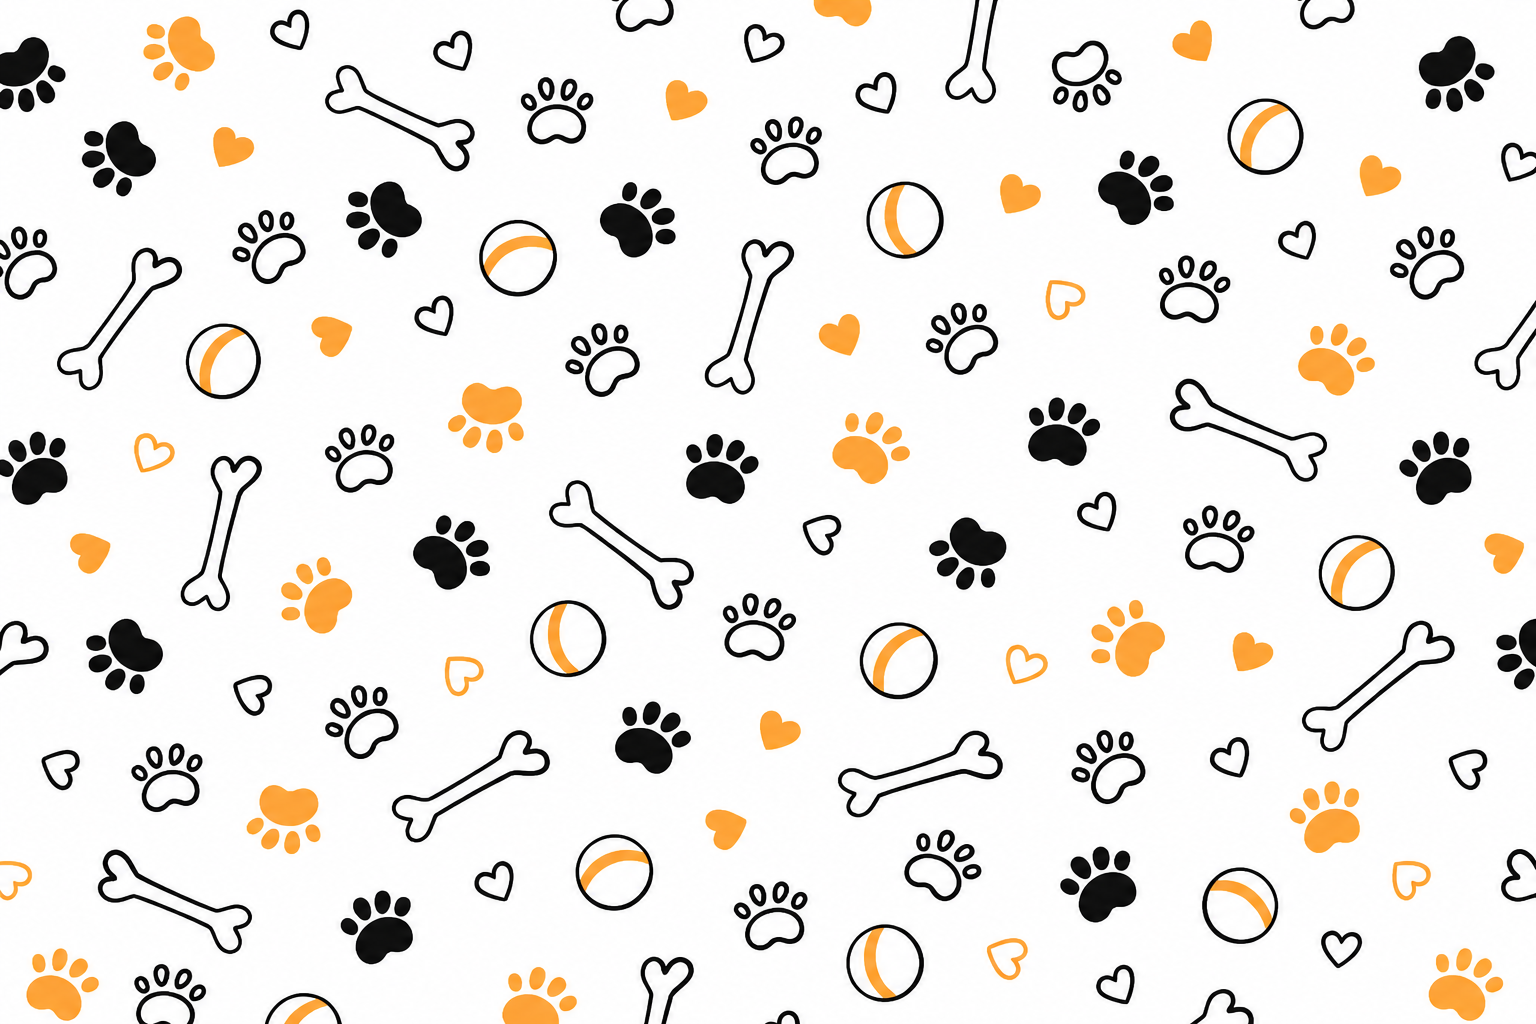
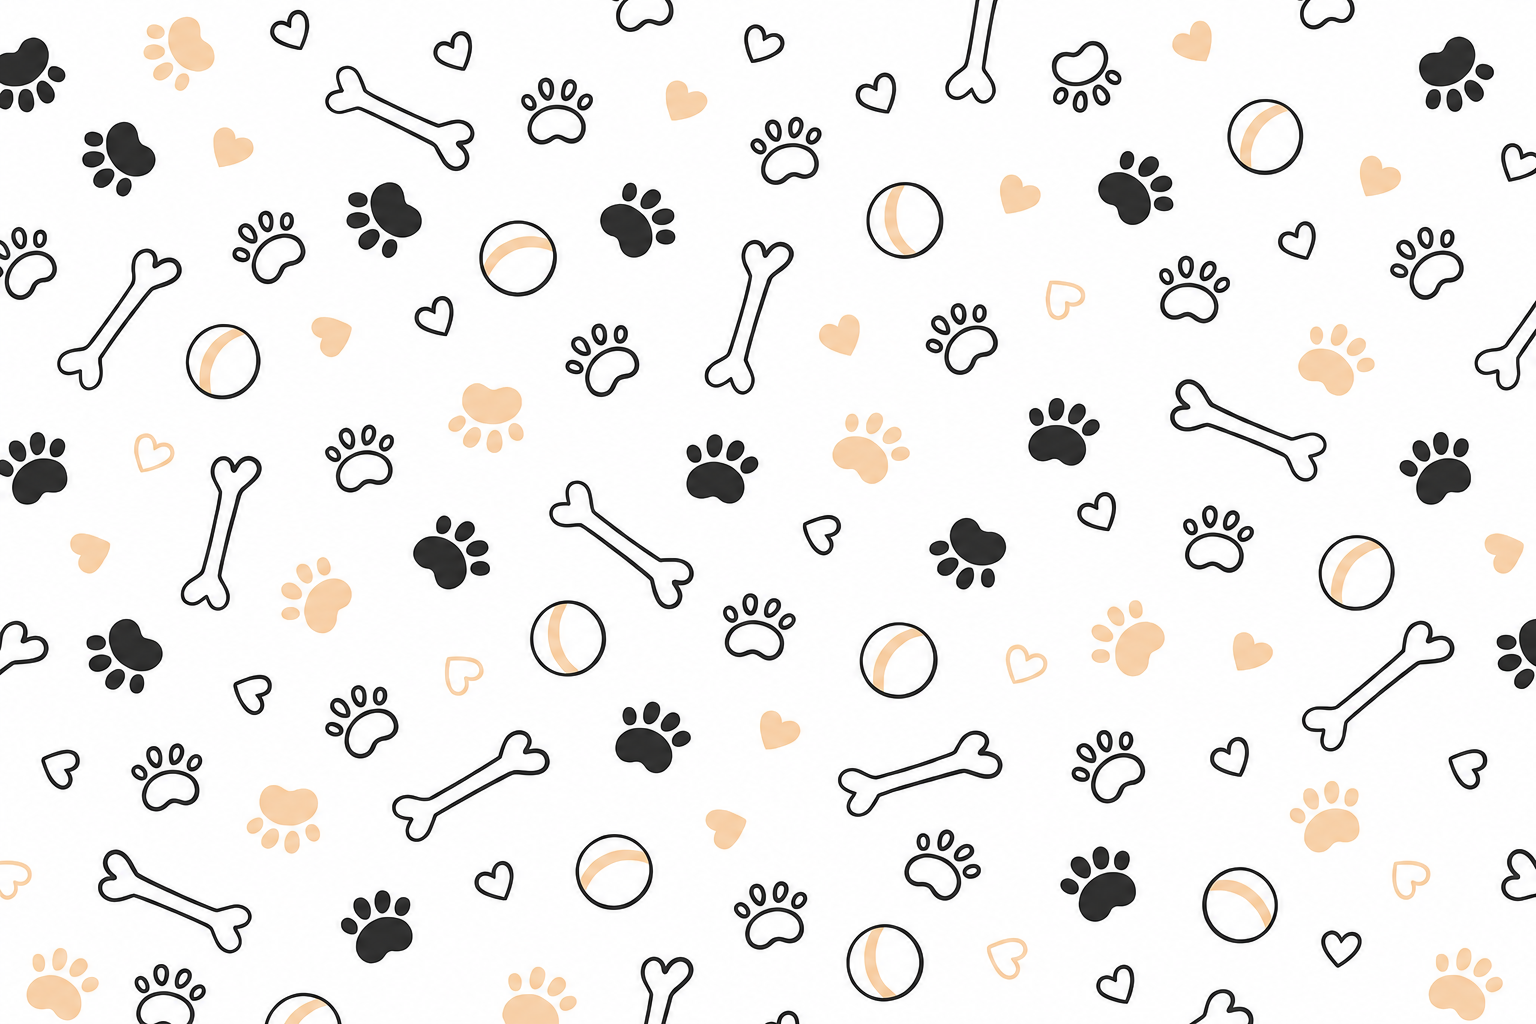
carrusel2

diff --git a/carrusel-eventos.html b/carrusel-eventos.html
@@ -1,0 +1,59 @@
+<!DOCTYPE html>
+<html lang="en">
+
+<head>
+    <meta charset="UTF-8">
+    <meta name="viewport" content="width=device-width, initial-scale=1.0">
+    <title>Document</title>
+    <link rel="stylesheet" href="styles.css">
+</head>
+<body>
+    <header class="header">
+        <div class="titulo">
+            <img class="logo" src="images/logo.png" alt="Logo de la fundación">
+            <h1>Patitas Felices</h1>
+        </div>
+        <nav class="navegador">
+            <a href="/index.html">Inicio</a>
+            <a href="#adopta">Adopta</a>
+            <a href="#contacto">Contacto</a>
+            <a href="/misionYvision.html">Visión y Misión</a>
+            <a href="/carrusel-eventos.html">Eventos</a>
+        </nav>
+    </header>
+
+    <section class="titulo-carrusel">
+        <h1>Momentos que nos inspiran</h1>
+        <h3>Un vistazo a nuestro día a día en el refugio.</h3>
+    </section>
+    <section>
+        <p>Lorem ipsum dolor sit, amet consectetur adipisicing elit. Laboriosam consequuntur cumque, eos, repellat ab deserunt ratione sapiente, sequi id suscipit corporis reiciendis et incidunt voluptate praesentium. Accusamus quaerat at corrupti.</p>
+        <p>Lorem ipsum dolor sit amet consectetur adipisicing elit. Cumque non dolores possimus adipisci consectetur illum iste. Porro facere aliquam fugit ad! Maxime perspiciatis error quam expedita, aliquam numquam dolores minus!</p>
+    </section>
+
+    <footer class="footer">
+        <div class="footer-general">
+            <div class="footer-nombre">
+                <span class="nombre">Patitas Felices</span>
+                <span class="eslogan">Fundación de rescate y adopción animal</span>
+            </div>
+
+            <a href="contacto@patitasfelices.org" class="pie-correo">
+                contacto@patitasfelices.org
+            </a>
+
+            <p class="desarrollado-por">Desarrollado por Camila</p>
+        </div>
+
+        <div class="copyrigh">
+            <hr>
+            <span class="derechos">© 2026 Patitas Felices. Todos los derechos reservados.</span>
+            <div class="enlaces">
+                <a href="#">Privacidad</a>
+                <a href="#">Términos</a>
+            </div>
+        </div>
+    </footer>
+</body>
+
+</html>

diff --git a/misionYvision.html b/misionYvision.html
@@ -17,6 +17,7 @@
             <a href="#adopta">Adopta</a>
             <a href="#contacto">Contacto</a>
             <a href="/misionYvision.html">Visión y Misión</a>
+             <a href="/carrusel-eventos.html">Eventos</a>
         </nav>
     </header>
     
@@ -37,30 +38,29 @@
                 <p>Transformar la realidad de los animales abandonados mediante el rescate ético, la concienciación social sobre la tenencia responsable y el fomento de la adopción como primera opción.</p>
             </div>
     </section>
-    <footer>
-        <div class="cont-footer">
-            <div class="cont-1">
-                <p>Trabajamos cada día para que ningún animal tenga que sufrir el frío de la calle. Únete a nuestra
-                    causa y ayúdanos a seguir salvando vidas.</p>
-            </div>
-            <div class="cont-2">
-                <h3>Enlaces rapidos</h3>
-                <div class="enlaces-rapidos">
-                    <p>Sobre nosotros</p>
-                    <p>Animales en adopción</p>
-                    <p>Cómo ayudar</p>
-                    <p>Historias de exito</p>
-                </div>
-            </div>
-            <div class="cont-3">
-                <h3>Legales</h3>
-                <p>Términos y condiciones</p>
-                <p>Politica de privacidad</p>
-                <p>Protocolo de adopción</p>
-            </div>
-        </div>
-       
-    </footer>
+     <footer class="footer">
+  <div class="footer-general">
+    <div class="footer-nombre">
+      <span class="nombre">Patitas Felices</span>
+      <span class="eslogan">Fundación de rescate y adopción animal</span>
+    </div>
+
+    <a href="contacto@patitasfelices.org" class="pie-correo">
+      contacto@patitasfelices.org
+    </a>
+
+    <p class="desarrollado-por">Desarrollado por Camila</p>
+  </div>
+
+  <div class="copyrigh">
+    <hr>
+    <span class="derechos">© 2026 Patitas Felices. Todos los derechos reservados.</span>
+    <div class="enlaces">
+      <a href="#">Privacidad</a>
+      <a href="#">Términos</a>
+    </div>
+  </div>
+</footer>
     
 </body>
 </html>

diff --git a/index.html b/index.html
@@ -19,6 +19,7 @@
             <a href="#adopta">Adopta</a>
             <a href="#contacto">Contacto</a>
             <a href="/misionYvision.html">Visión y Misión</a>
+            <a href="/carrusel-eventos.html">Eventos</a>
         </nav>
 
     </header>
@@ -63,31 +64,30 @@
             </div>
         </div>
     </section>
-    </section>
-    <footer>
-        <div class="cont-footer">
-            <div class="cont-1">
-                <p>Trabajamos cada día para que ningún animal tenga que sufrir el frío de la calle. Únete a nuestra
-                    causa y ayúdanos a seguir salvando vidas.</p>
-            </div>
-            <div class="cont-2">
-                <h3>Enlaces rapidos</h3>
-                <div class="enlaces-rapidos">
-                    <p>Sobre nosotros</p>
-                    <p>Animales en adopción</p>
-                    <p>Cómo ayudar</p>
-                    <p>Historias de exito</p>
-                </div>
-            </div>
-            <div class="cont-3">
-                <h3>Legales</h3>
-                <p>Términos y condiciones</p>
-                <p>Politica de privacidad</p>
-                <p>Protocolo de adopción</p>
-            </div>
-        </div>
-       
-    </footer>
+
+  <footer class="footer">
+  <div class="footer-general">
+    <div class="footer-nombre">
+      <span class="nombre">Patitas Felices</span>
+      <span class="eslogan">Fundación de rescate y adopción animal</span>
+    </div>
+
+    <a href="contacto@patitasfelices.org" class="pie-correo">
+      contacto@patitasfelices.org
+    </a>
+
+    <p class="desarrollado-por">Desarrollado por Camila</p>
+  </div>
+
+  <div class="copyrigh">
+    <hr>
+    <span class="derechos">© 2026 Patitas Felices. Todos los derechos reservados.</span>
+    <div class="enlaces">
+      <a href="#">Privacidad</a>
+      <a href="#">Términos</a>
+    </div>
+  </div>
+</footer>
 </body>
 
 </html>

diff --git a/styles.css b/styles.css
@@ -272,6 +272,95 @@ p{
     margin-right: 50px;
   }
 
+  .footer {
+  background-color: #1a1a1a;
+  padding: 32px 40px 20px 40px;
+  font-family: sans-serif;
+  height: 100px;
+}
+
+.footer-general {
+  display: flex;
+  justify-content: space-between;
+  align-items: center;
+  flex-wrap: wrap;
+  gap: 16px;
+  padding-bottom: 20px;
+}
+
+.footer-nombre {
+  display: flex;
+  flex-direction: column;
+  gap: 4px;
+}
+
+.nombre {
+  font-size: 17px;
+  font-weight: 500;
+  color: #e8e8e8;
+}
+
+.eslogan {
+  font-size: 12px;
+  color: #777777;
+}
+
+.pie-correo {
+  font-size: 13px;
+  color: #999999;
+  text-decoration: none;
+  transition: color 0.2s;
+}
+
+.pie-correo:hover {
+  color: #e8e8e8;
+}
+.desarrollado-por{
+  font-size: 12px;
+  color: #999999;
+  padding-right: 70px;
+}
+hr {
+  border: none;
+  border-top: 1px solid #333333;
+  margin: 0 0 16px 0;
+  width: 100%;
+}
+
+.copyrigh{
+  display: flex;
+  justify-content: space-between;
+  align-items: center;
+  flex-wrap: wrap;
+  gap: 8px;
+  padding-bottom: 16px;
+
+}
+
+
+.derechos {
+  font-size: 12px;
+  color: #555555;
+}
+
+.enlaces {
+  display: flex;
+  gap: 24px;
+  text-decoration: none;
+
+}
+
+.enlaces a {
+  font-size: 12px;
+  color: #555555;
+  text-decoration: none;
+  transition: color 0.2s;
+  padding-right: 70px;
+}
+
+.enlaces a:hover {
+  color: #aaaaaa;
+}
 
   .vision-mision{
     background-image: url(images/fondo-patas.png);
@@ -347,4 +436,10 @@ p{
   }
   .mision:hover{
     box-shadow: 2px 2px 5px rgb(238, 141, 14);
+  }
+
+
+  .titulo-carrusel{
+    font-family: Verdana, Geneva, Tahoma, sans-serif;
+    margin: 0 auto;
   }
